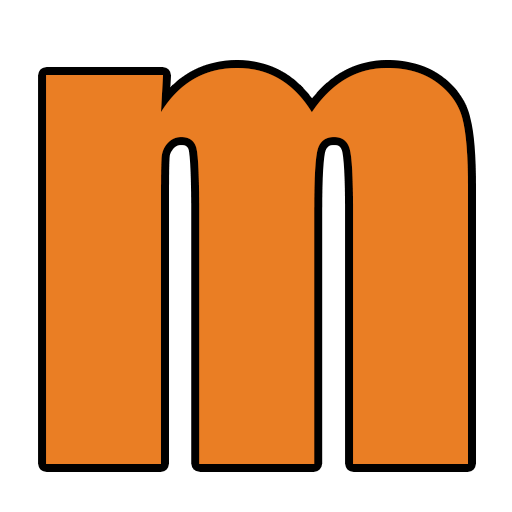
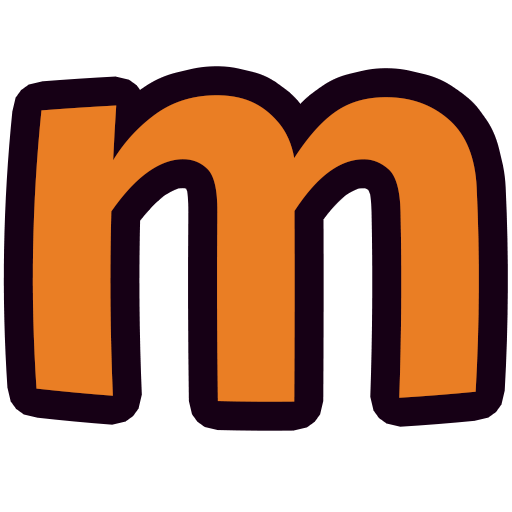
favico fixed

diff --git a/gatsby-config.js b/gatsby-config.js
@@ -14,8 +14,8 @@ module.exports = {
         name: `Miloš - Front-End Web Developer`,
         short_name: `Miloš Dev`,
         start_url: `/`,
-        background_color: `#f7f0eb`,
-        theme_color: `#a2466c`,
+        background_color: `#a8a7ac`,
+        theme_color: `#ea7e24`,
         display: `standalone`,
         icon: `src/images/m.png`
       }
